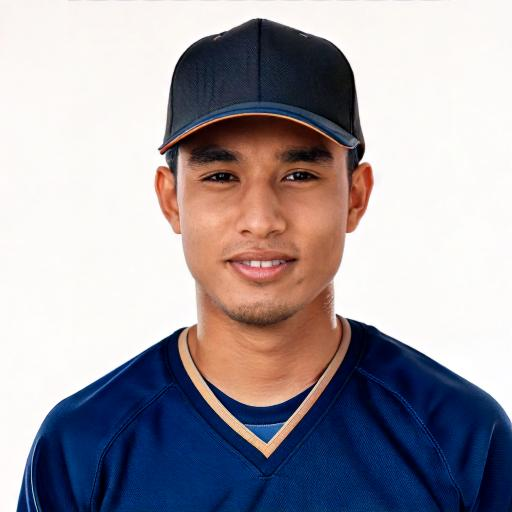
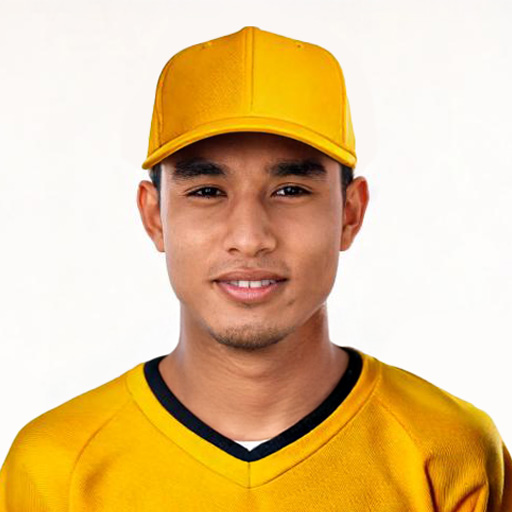
khal crop

diff --git a/players.js b/players.js
@@ -19,7 +19,7 @@ const players = [
         bioLink: 'http://bratinstitute.com'},
     { no: 10, name: "Clyde Babee", pos: "RHP", year: "Freshman", ht: "5'11\"", wt: "0 lbs", hometown: "Houston, Texas", school: "Cy Ranch HS", bt: "R/R", image: "images/10 Clyde Babee.jpg",
         bioLink: 'http://bratinstitute.com'},
-    { no: 11, name: "Khal Valdez", pos: "RHP", year: "Sophomore", ht: "6'1\"", wt: "180 lbs", hometown: "Naples, Fla.", school: "Gulf Coast HS", bt: "R/R", image: "images/11 Khal Valdez.png",
+    { no: 11, name: "Khal Valdez", pos: "RHP", year: "Sophomore", ht: "6'1\"", wt: "180 lbs", hometown: "Naples, Fla.", school: "Gulf Coast HS", bt: "R/R", image: "images/11 Khal Valdez.jpg",
         bioLink: 'http://bratinstitute.com'},
     { no: 12, name: "Tressa Scar", pos: "OF", year: "Freshman", ht: "5'10\"", wt: "0 lbs", hometown: "San Marcos, Calif.", school: "San Marcos HS", bt: "R/R", image: "images/12 Tressa Scar.jpg",
         bioLink: 'http://bratinstitute.com'},
